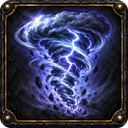
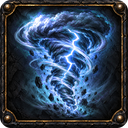
fix(arte): refino do raio (arco grosso, overlay de faíscas, ícone do tornado azul)
Claude-Session: https://claude.ai/code/session_018RafTHoHgK9ZaqcoNTpfmr

diff --git a/tools/arte/fx_arqueiro/raio/refino_v2.py b/tools/arte/fx_arqueiro/raio/refino_v2.py
@@ -1,0 +1,71 @@
+"""Refino v2 da arte de Raio (pedido da revisora): raio_arco mais grosso com nós de brilho, choque_overlay só de faíscas
+e arcos (sem silhueta) e ícone do tornado puxado para o azul. Uso: python3 refino_v2.py <raiz_do_repo>"""
+import math, os, random, sys
+import numpy as np
+from PIL import Image, ImageDraw, ImageFilter
+R = sys.argv[1]
+FX = os.path.join(R, "godot/art2d/fx/raio"); UI = os.path.join(R, "godot/art2d/ui")
+NUC = (245, 252, 255, 255); AZ = (70, 130, 255, 255); CON = (15, 22, 80, 255)
+
+def bolt(p0, p1, rnd, seg, desv):
+    (x0, y0), (x1, y1) = p0, p1; dx, dy = x1 - x0, y1 - y0; d = math.hypot(dx, dy) or 1
+    nx, ny = -dy / d, dx / d; pts = [p0]
+    for i in range(1, seg):
+        t = i / seg; o = rnd.uniform(-desv, desv) * math.sin(math.pi * t) ** .5
+        pts.append((x0 + dx * t + nx * o, y0 + dy * t + ny * o))
+    return pts + [p1]
+
+def traco(im, pts, w):
+    d = ImageDraw.Draw(im)
+    for l, c in ((w + 5, CON), (w + 3, AZ), (max(1, w * .55), NUC)):
+        d.line(pts, fill=c, width=int(round(l)), joint="curve")
+
+def no(im, p, r):
+    d = ImageDraw.Draw(im)
+    d.ellipse([p[0] - r - 2, p[1] - r - 2, p[0] + r + 2, p[1] + r + 2], fill=AZ)
+    d.ellipse([p[0] - r, p[1] - r, p[0] + r, p[1] + r], fill=NUC)
+
+def brilho(im, r):
+    return Image.alpha_composite(im.filter(ImageFilter.GaussianBlur(r)), im)
+
+def folha(qs, nome):
+    w, h = qs[0].size; f = Image.new("RGBA", (w * len(qs), h), (0, 0, 0, 0))
+    for i, q in enumerate(qs): f.paste(q, (i * w, 0))
+    f.save(os.path.join(FX, nome))
+
+# raio_arco 4x 128x32: traço grosso, nós nas pontas e nas ramificações
+qs = []
+for k in range(4):
+    rnd = random.Random(900 + k); im = Image.new("RGBA", (128, 32), (0, 0, 0, 0))
+    pts = bolt((8, 16), (120, 16), rnd, 10, 7); traco(im, pts, 4)
+    for _ in range(3):
+        i = rnd.randrange(2, len(pts) - 2); a = pts[i]; s = rnd.choice((-1, 1))
+        b = (a[0] + rnd.uniform(8, 14), a[1] + s * rnd.uniform(7, 11)); traco(im, [a, b], 2); no(im, b, 2)
+    no(im, (8, 16), 4); no(im, (120, 16), 4)
+    qs.append(brilho(im, 3))
+folha(qs, "raio_arco.png")
+
+# choque_overlay 6x 64x64: arcos e faíscas em volta de qualquer corpo (sem silhueta)
+qs = []
+for k in range(6):
+    rnd = random.Random(950 + k); im = Image.new("RGBA", (64, 64), (0, 0, 0, 0))
+    for j in range(4):
+        a = (j / 4 + k * 0.07) * math.tau + rnd.uniform(-.3, .3)
+        p0 = (32 + 20 * math.cos(a), 32 + 20 * math.sin(a)); a2 = a + rnd.uniform(.5, .9)
+        p1 = (32 + 24 * math.cos(a2), 32 + 24 * math.sin(a2))
+        traco(im, bolt(p0, p1, rnd, 4, 4), 2)
+        if rnd.random() < .7: no(im, p1, 2)
+    for _ in range(5):
+        a = rnd.uniform(0, math.tau); r = rnd.uniform(14, 28); no(im, (32 + r * math.cos(a), 32 + r * math.sin(a)), 1)
+    qs.append(brilho(im, 2))
+folha(qs, "choque_overlay.png")
+
+# ícone do tornado: roxo -> azul (gira o matiz só onde está roxo/violeta, mantém a moldura)
+p = os.path.join(UI, "icone_storm_tornado.png")
+im = Image.open(p).convert("RGBA"); hsv = np.array(im.convert("RGB").convert("HSV")).astype(int)
+h, s = hsv[..., 0], hsv[..., 1]
+roxo = (h > 170) & (h < 225) & (s > 40)      # 0-255: roxo/violeta/magenta
+hsv[..., 0] = np.where(roxo, np.clip(h - 42, 0, 255), h)  # (2 passadas: -28 e -14)
+hsv[..., 1] = np.where(roxo, np.clip(s + 25, 0, 255), s)
+out = Image.fromarray(hsv.astype("uint8"), "HSV").convert("RGB").convert("RGBA"); out.putalpha(im.getchannel("A"))
+out.save(p)
